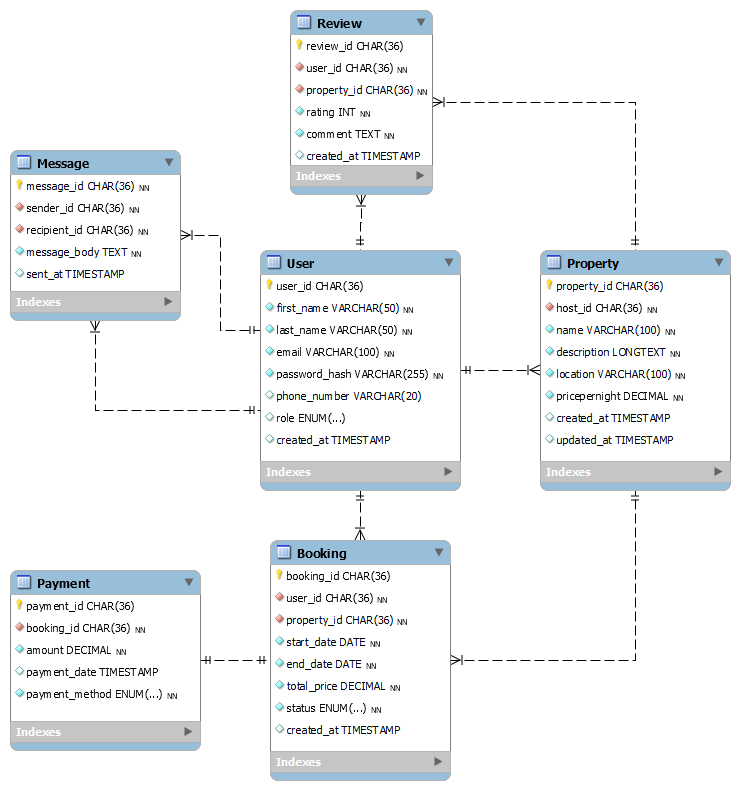
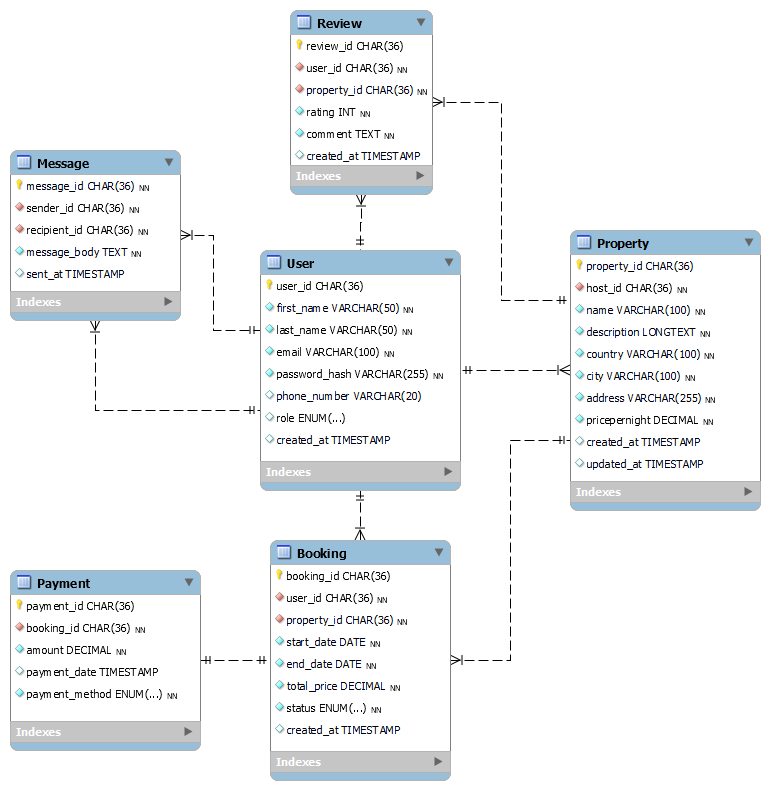
0. Define Entities and Relationships in ER Diagram

diff --git a/ERD/requirements.md b/ERD/requirements.md
@@ -33,7 +33,9 @@ It outlines the tables, attributes, constraints, and relationships that define t
 * `host_id`: Foreign Key, references `User(user_id)`
 * `name`: VARCHAR, **NOT NULL**
 * `description`: TEXT, **NOT NULL**
-* `location`: VARCHAR, **NOT NULL**
+* `country`: VARCHAR, **NOT NULL**
+* `city`: VARCHAR, **NOT NULL**
+* `address`: VARCHAR, **NOT NULL**
 * `pricepernight`: DECIMAL, **NOT NULL**
 * `created_at`: TIMESTAMP, **DEFAULT CURRENT_TIMESTAMP**
 * `updated_at`: TIMESTAMP, **ON UPDATE CURRENT_TIMESTAMP**
